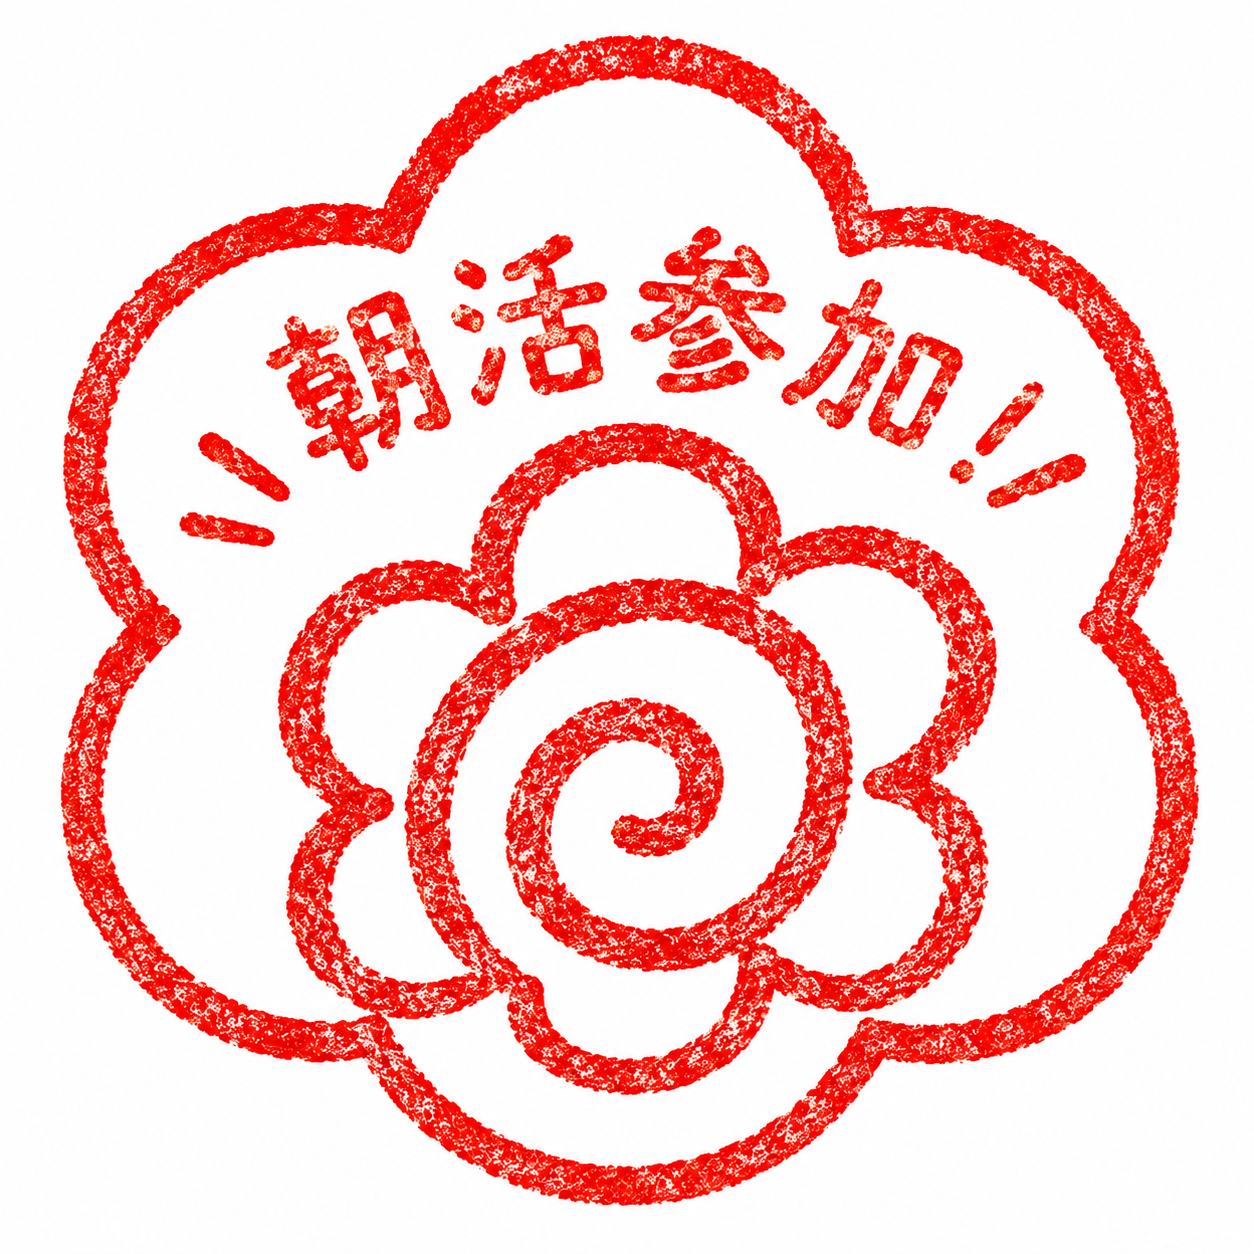
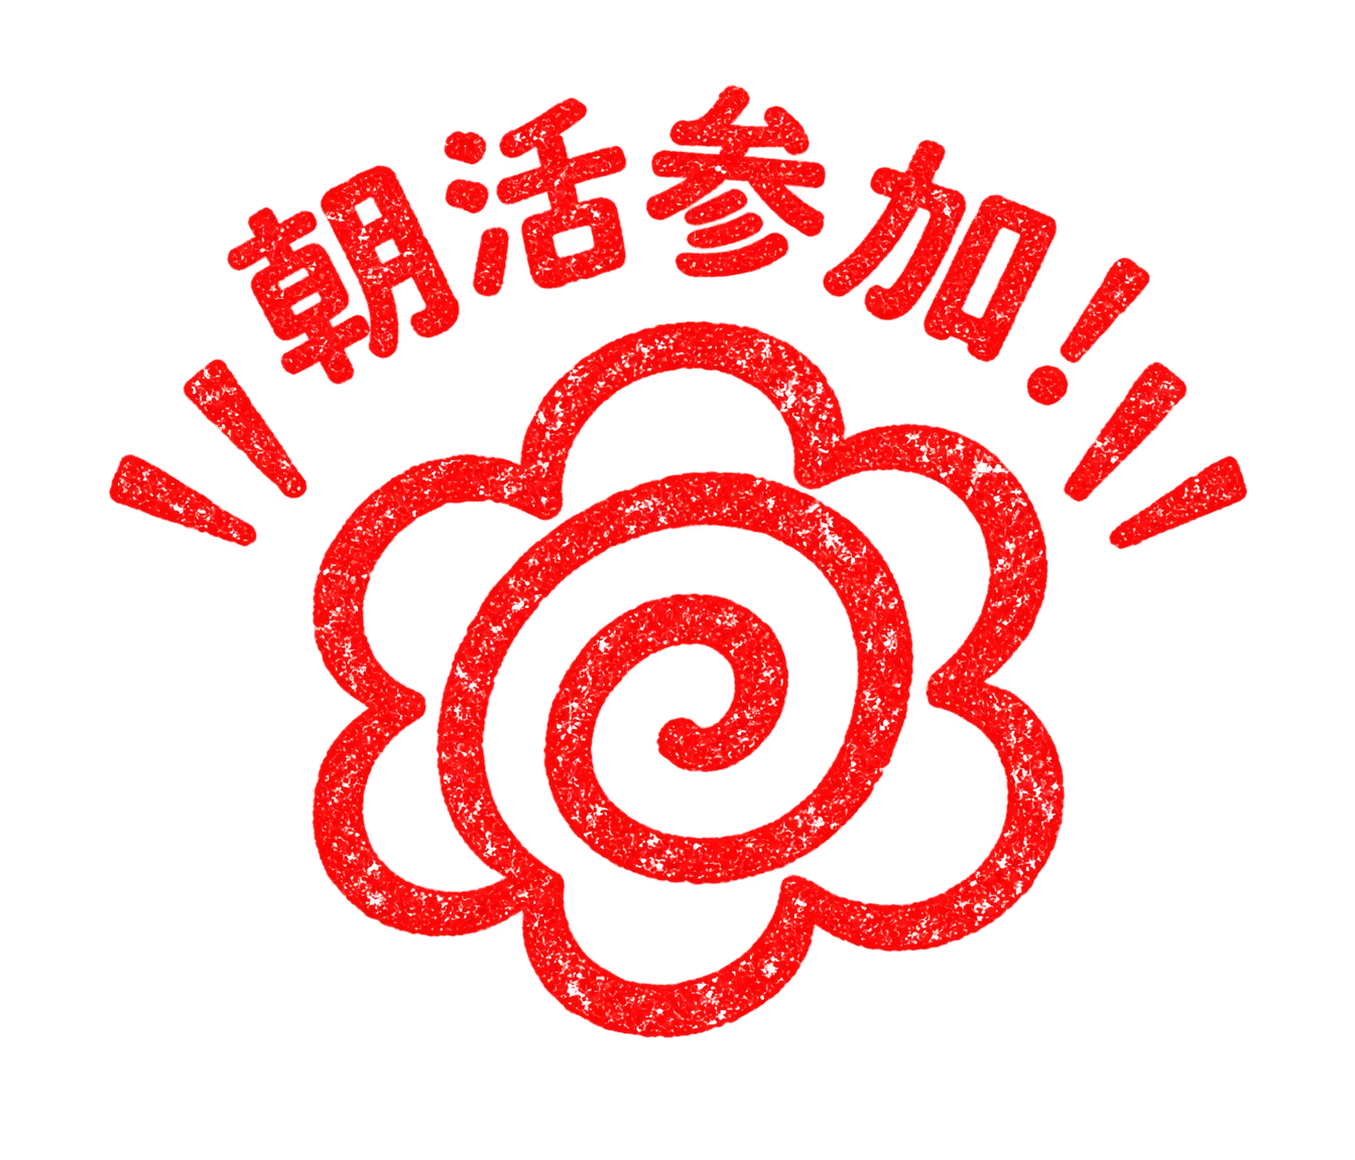
Swap in transparent-background stamp image
Replaces the white-background version with a transparent PNG (same
design). Since the new image isn't square (1355x1160 vs the previous
1254x1254), switched StampMark to a fixed-size wrapper with
next/image's fill + object-fit: contain, so it scales without
distortion regardless of the source image's aspect ratio - this keeps
future image swaps a one-file change.

diff --git a/src/components/StampMark.tsx b/src/components/StampMark.tsx
@@ -3,7 +3,7 @@ import Image from "next/image";
 const SIZE_PX = { sm: 24, md: 40, lg: 56 } as const;
 
 // 仮のスタンプ画像。RUNTEQの許可が取れ次第、正式ならんてくんスタンプに差し替え予定（CLAUDE.md参照）。
-// 白背景のPNGを mix-blend-mode: multiply で紙の背景になじませている。
+// 透過PNGを object-fit: contain で正方形の枠に収め、mix-blend-mode: multiply で紙になじませている。
 export function StampMark({
   size = "md",
   animate = false,
@@ -14,12 +14,17 @@ export function StampMark({
   const px = SIZE_PX[size];
 
   return (
-    <Image
-      src="/stamp.png"
-      alt="スタンプ済み"
-      width={px}
-      height={px}
-      className={`stamp-mark inline-block shrink-0 ${animate ? "stamp-pop" : ""}`}
-    />
+    <span
+      className={`stamp-mark relative inline-block shrink-0 ${animate ? "stamp-pop" : ""}`}
+      style={{ width: px, height: px }}
+    >
+      <Image
+        src="/stamp.png"
+        alt="スタンプ済み"
+        fill
+        sizes={`${px}px`}
+        style={{ objectFit: "contain" }}
+      />
+    </span>
   );
 }
